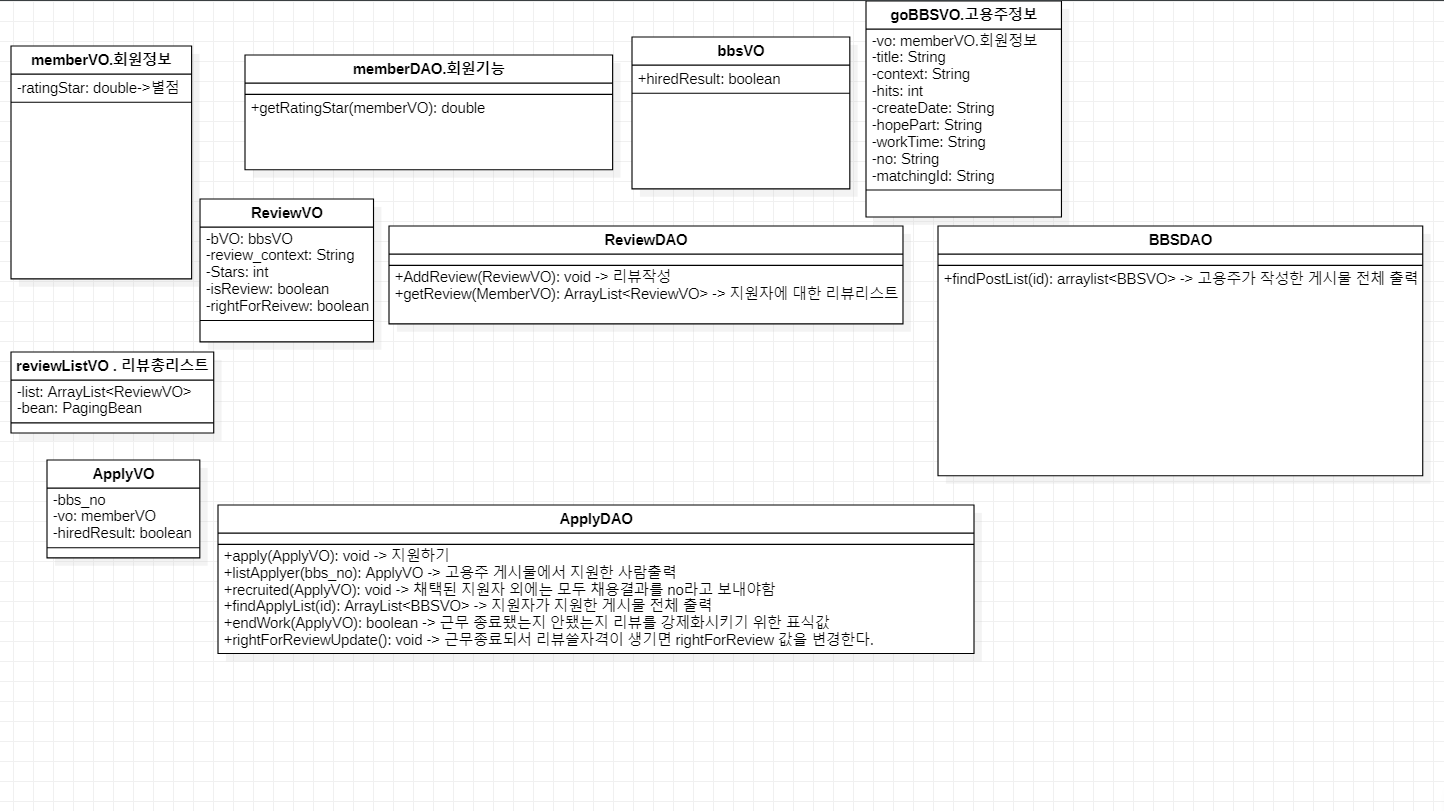
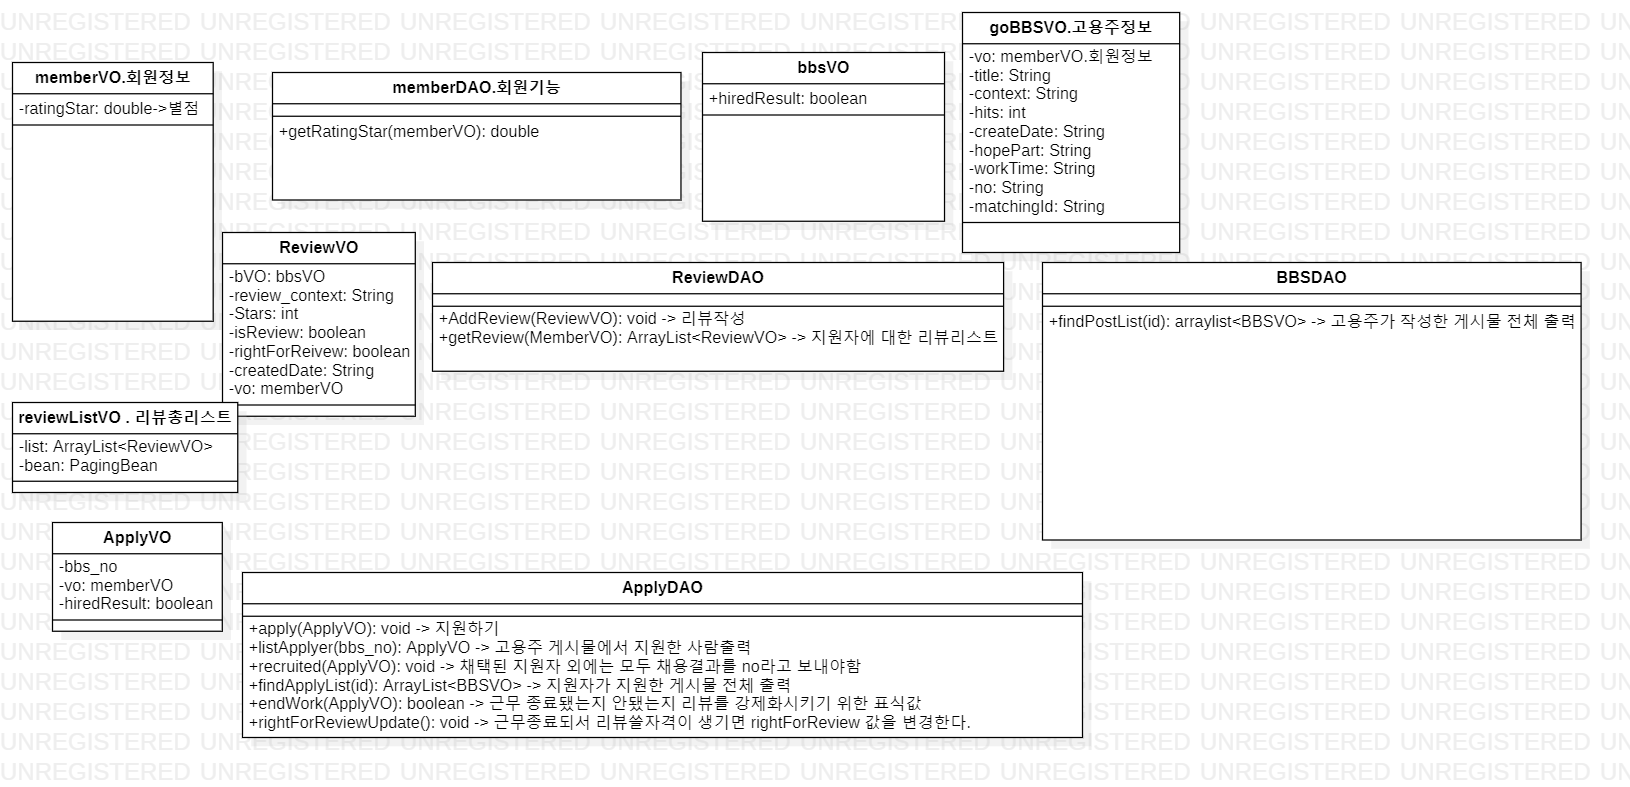
2차구현 -ApplyDAO.listApplyer() : listApplyer(in bbs_no): ApplyVO -> 고용주 게시물에서 지원한 사람출력
-ApplyDAO.recruited()
: recruited(in ApplyVO): void -> 채택된 지원자 외에는 모두 채용결과를 no라고 보내야함

-ApplyDAO.findApplyList()
findApplyList(in id): ArrayList<BBSVO> -> 지원자가 지원한 게시물 전체 출력

Changed region(s): [[0.0, 0.0, 0.9972, 0.9454]]

diff --git a/I,Scream/src/org/project/model/ApplyDAO.java b/I,Scream/src/org/project/model/ApplyDAO.java
@@ -4,6 +4,7 @@ import java.sql.Connection;
 import java.sql.PreparedStatement;
 import java.sql.ResultSet;
 import java.sql.SQLException;
+import java.util.ArrayList;
 
 import javax.sql.DataSource;
 
@@ -19,6 +20,74 @@ public class ApplyDAO {
 	public Connection getConnection() throws SQLException{
 		return dataSource.getConnection();
 	}
+	
+	//고용주 게시물에서 지원자 출력
+	public ArrayList<MemberVO> listApplyer(String bbs_no) throws SQLException {
+		Connection con = null;
+		PreparedStatement pstmt = null;
+		ResultSet rs = null;
+		ArrayList<MemberVO> list = new ArrayList<MemberVO>();
+		//게시물에 대해서 지원한 사람의 아이디와 평점을  가져온다.
+		String sql = "select m.id,m.name,m.avgstars from member m, apply a where m.id=a.id and a.bbs_no=?";
+		try {
+			 con = dataSource.getConnection();
+			 pstmt = con.prepareStatement(sql);
+			 pstmt.setString(1,bbs_no);
+			 rs = pstmt.executeQuery();
+			 while(rs.next()) {
+				 list.add(new MemberVO(rs.getString(1), rs.getString(2), rs.getFloat(3)));
+			 }
+		} finally {
+			closeAll(rs, pstmt, con);
+		}
+		
+		
+		return list;
+	}
+	
+	//채용 처리 메소드
+	public void recruit(String bbs_no, String applyID) throws SQLException {
+		Connection con = null;
+		PreparedStatement pstmt = null;
+		//채용된 사람 및 안된 사람에 대한 db 데이터 변경
+		//id가 채용된 지원자인경우에만 채용결과에 yes를 넣고 아니면 no라고 입력
+		String sql = "update apply set hiredResult=if(id=?,'YES','NO') where bbs_no=?";
+		try {
+			 con = dataSource.getConnection();
+			 pstmt = con.prepareStatement(sql);
+			 pstmt.setString(1,applyID);
+			 pstmt.setString(2,bbs_no);
+			 pstmt.execute();
+		} finally {
+			closeAll(pstmt, con);
+		}
+	}
+	//지원한 게시물 출력 리스트(채용된것과 기간지난건 제외)
+	public ArrayList<BBSVO> findApplyList(String id) throws SQLException {
+		Connection con = null;
+		PreparedStatement pstmt = null;
+		ResultSet rs = null;
+		ArrayList<BBSVO> list = new ArrayList<BBSVO>();
+		//지원한 게시물 가져오기
+		String sql = "select b.bbs_no,b.title,b.context,b.hits,b.postedate,b.category, b.WORKTIME-SYSDATE as workTime,b.writer"
+				+"from board b, (select * from apply where id=? and hiredResult='NO') a"
+				+"where b.id=a.id";
+		try {
+			 con = dataSource.getConnection();
+			 pstmt = con.prepareStatement(sql);
+			 pstmt.setString(1,id);
+			 rs = pstmt.executeQuery();
+			 while(rs.next()) {
+				 if(rs.getInt(7)>0) {
+					 list.add(new BBSVO(new MemberVO(rs.getString(8), null, null), rs.getString(2), rs.getString(3),
+								rs.getInt(4), rs.getString(5), rs.getString(6), rs.getString(7), rs.getString(1)));
+				 }
+			 }
+		} finally {
+			closeAll(rs, pstmt, con);
+		}
+		return list;
+	}
 	public void closeAll(PreparedStatement pstmt,Connection con) throws SQLException{
 		if(pstmt!=null)
 			pstmt.close();
@@ -31,4 +100,7 @@ public class ApplyDAO {
 		closeAll(pstmt,con);
 
 	}
+	
+	
+	
 }

diff --git a/I,Scream/src/org/project/controller/findApplyListController.java b/I,Scream/src/org/project/controller/findApplyListController.java
@@ -1,14 +1,18 @@
 package org.project.controller;
 
+import java.util.ArrayList;
+
 import javax.servlet.http.HttpServletRequest;
 import javax.servlet.http.HttpServletResponse;
 import javax.servlet.http.HttpSession;
 
+import org.project.model.ApplyDAO;
+import org.project.model.ApplyVO;
 import org.project.model.BBSDAO;
 import org.project.model.BBSVO;
 import org.project.model.MemberVO;
 
-public class AddPostController implements Controller {
+public class findApplyListController implements Controller {
 
 	@Override
 	public String execute(HttpServletRequest request, HttpServletResponse response) throws Exception {
@@ -17,19 +21,17 @@ public class AddPostController implements Controller {
 		//세션이 끊겼는지 확인
 		if(session !=null&&session.getAttribute("mvo")!=null) {
 			MemberVO mvo = (MemberVO) session.getAttribute("mvo");
-			String title = request.getParameter("title");
-			String context = request.getParameter("context");
-			String category = request.getParameter("category");
-			String workTime = request.getParameter("workTime");
-			BBSVO bbsvo = new BBSVO(mvo, title, context, category, workTime);
-			BBSDAO.getInstance().addBBS(bbsvo);
+			ArrayList<BBSVO> list = ApplyDAO.getInstance().findApplyList(mvo.getId());
+			request.setAttribute("ApplyList", list);
+			url="/apply/findApplyList.jsp";
 		}
 		else {
 			url="/member/IdNotLogin.jsp";
 			return url;
 		}
-		
-		return "redirect:bbs/addPost_result.jsp";
+		request.setAttribute("url", url);
+		return "template/bbs-layout.jsp";
+
 	}
 
 }

diff --git a/I,Scream/src/org/project/controller/RecruitController.java b/I,Scream/src/org/project/controller/RecruitController.java
@@ -4,32 +4,30 @@ import javax.servlet.http.HttpServletRequest;
 import javax.servlet.http.HttpServletResponse;
 import javax.servlet.http.HttpSession;
 
+import org.project.model.ApplyDAO;
 import org.project.model.BBSDAO;
 import org.project.model.BBSVO;
 import org.project.model.MemberVO;
 
-public class AddPostController implements Controller {
+public class RecruitController implements Controller {
 
 	@Override
 	public String execute(HttpServletRequest request, HttpServletResponse response) throws Exception {
 		HttpSession session = request.getSession();
+		String bbs_no=request.getParameter("bbs_no");
+		String applyID=request.getParameter("applyID");
 		String url ="";	
 		//세션이 끊겼는지 확인
 		if(session !=null&&session.getAttribute("mvo")!=null) {
-			MemberVO mvo = (MemberVO) session.getAttribute("mvo");
-			String title = request.getParameter("title");
-			String context = request.getParameter("context");
-			String category = request.getParameter("category");
-			String workTime = request.getParameter("workTime");
-			BBSVO bbsvo = new BBSVO(mvo, title, context, category, workTime);
-			BBSDAO.getInstance().addBBS(bbsvo);
+			//지원자이외에는 db에 no라고 해줄게 필요함
+			ApplyDAO.getInstance().recruit(bbs_no,applyID);
 		}
 		else {
 			url="/member/IdNotLogin.jsp";
 			return url;
 		}
 		
-		return "redirect:bbs/addPost_result.jsp";
+		return "redirect:command=recuitResult&&bbs_no="+bbs_no+"&id="+applyID;
 	}
 
 }

diff --git a/I,Scream/src/org/project/controller/ListApplyerController.java b/I,Scream/src/org/project/controller/ListApplyerController.java
@@ -1,0 +1,36 @@
+package org.project.controller;
+
+import java.util.ArrayList;
+
+import javax.servlet.http.HttpServletRequest;
+import javax.servlet.http.HttpServletResponse;
+import javax.servlet.http.HttpSession;
+
+import org.project.model.ApplyDAO;
+import org.project.model.ApplyVO;
+import org.project.model.BBSDAO;
+import org.project.model.BBSVO;
+import org.project.model.MemberVO;
+
+public class ListApplyerController implements Controller {
+	// 고용주 게시물에서 지원한 사람출력
+	@Override
+	public String execute(HttpServletRequest request, HttpServletResponse response) throws Exception {
+		HttpSession session = request.getSession();
+		String url = "";
+		// 세션이 끊겼는지 확인
+		if (session != null && session.getAttribute("mvo") != null) {
+			String bbs_no = request.getParameter("bbs_no"); // 게시물번호
+			ArrayList<MemberVO> list = ApplyDAO.getInstance().listApplyer(bbs_no);
+			BBSVO vo = BBSDAO.getInstance().detailPostingByNo(bbs_no);
+			request.setAttribute("ListApplyer", list);
+			request.setAttribute("pvo", vo);
+			url = "/bbs/detailPost_ListApplyer.jsp";
+		} else {
+			url = "/member/IdNotLogin.jsp";
+		}
+		request.setAttribute("url", url);
+		return "/template/bbs-layout.jsp";
+	}
+
+}

diff --git a/I,Scream/src/org/project/controller/HandlerMapping.java b/I,Scream/src/org/project/controller/HandlerMapping.java
@@ -44,7 +44,23 @@ public class HandlerMapping {
 			controller=new OldPostCountController();
 		}else if (command.contentEquals("PetPostCount")) {
 			controller=new PetPostCountController();
+		}//고용주 게시물에서 지원한 사람출력
+		else if (command.contentEquals("listApplyer")) {
+			controller=new ListApplyerController();
+		}//채용하기 버튼 클릭시 채용된 지원자 외에 모두에게 알람 및 고용주에게 알람 발생
+		else if (command.contentEquals("Recruit")) {
+			controller=new RecruitController();
+		}else if (command.contentEquals("RecuitResult")) {
+			controller=new RecruitResultController();
+		}//지원현황 클릭시 리스트 출력
+		else if (command.contentEquals("findApplyList")) {
+			controller=new findApplyListController();
 		}
+		
+		
+		
+		
+		
 		return controller; 
 	}
 }

diff --git a/I,Scream/src/org/project/controller/RecruitResultController.java b/I,Scream/src/org/project/controller/RecruitResultController.java
@@ -1,0 +1,16 @@
+package org.project.controller;
+
+import javax.servlet.http.HttpServletRequest;
+import javax.servlet.http.HttpServletResponse;
+
+public class RecruitResultController implements Controller {
+
+	@Override
+	public String execute(HttpServletRequest request, HttpServletResponse response) throws Exception {
+		request.setAttribute("url", "/apply/recruitResult.jsp");
+		request.setAttribute("bbs_no",request.getAttribute("bbs_no"));
+		request.setAttribute("id",request.getAttribute("id"));
+		return "template/bbs-layout.jsp";
+	}
+
+}

diff --git a/I,Scream/src/org/project/model/ReviewVO.java b/I,Scream/src/org/project/model/ReviewVO.java
@@ -6,9 +6,34 @@ public class ReviewVO {
 	private int stars;
 	private boolean isReview;
 	private boolean rightForReview;
+	private String createDate;
+	private	MemberVO vo;
 	
 	
-	
+	public String getCreateDate() {
+		return createDate;
+	}
+
+
+
+	public void setCreateDate(String createDate) {
+		this.createDate = createDate;
+	}
+
+
+
+	public MemberVO getVo() {
+		return vo;
+	}
+
+
+
+	public void setVo(MemberVO vo) {
+		this.vo = vo;
+	}
+
+
+
 	public BBSVO getbVO() {
 		return bVO;
 	}

diff --git a/I,Scream/src/org/project/model/MemberVO.java b/I,Scream/src/org/project/model/MemberVO.java
@@ -12,7 +12,6 @@ public class MemberVO {
 	private float ratingStar;
 	
 	
-	
 	public float getRatingStar() {
 		return ratingStar;
 	}
@@ -102,6 +101,13 @@ public class MemberVO {
 		super();
 	}
 	
+
+	public MemberVO(String id, String name, float ratingStar) {
+		super();
+		this.id = id;
+		this.name = name;
+		this.ratingStar = ratingStar;
+	}
 
 	public MemberVO(String id, String password, String name) {
 		super();
